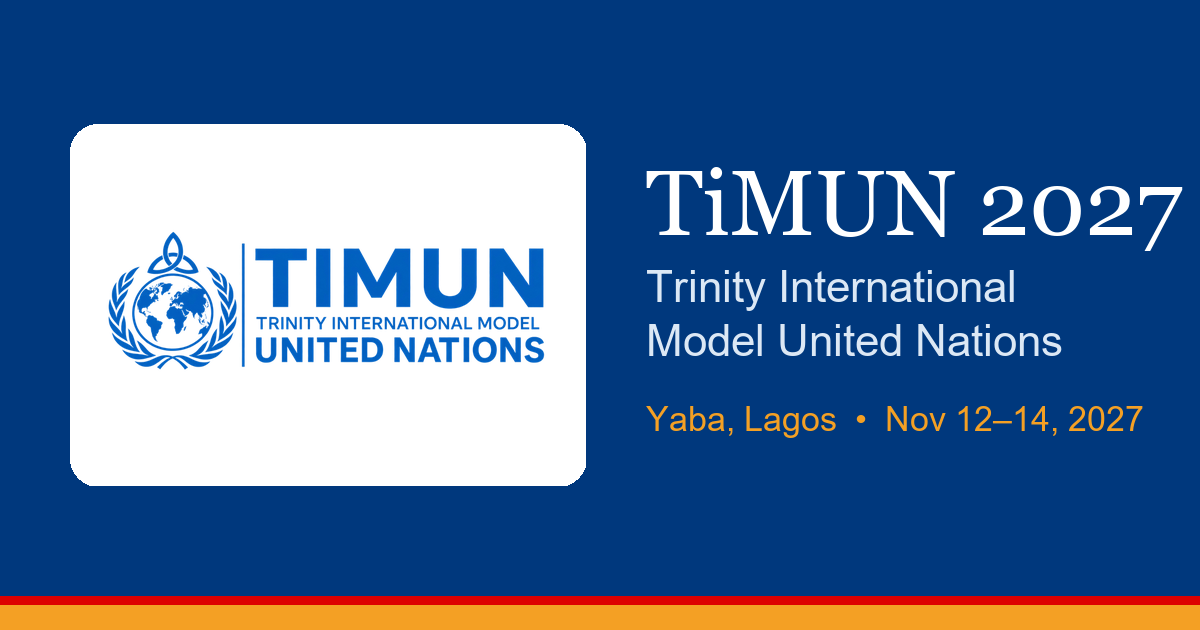
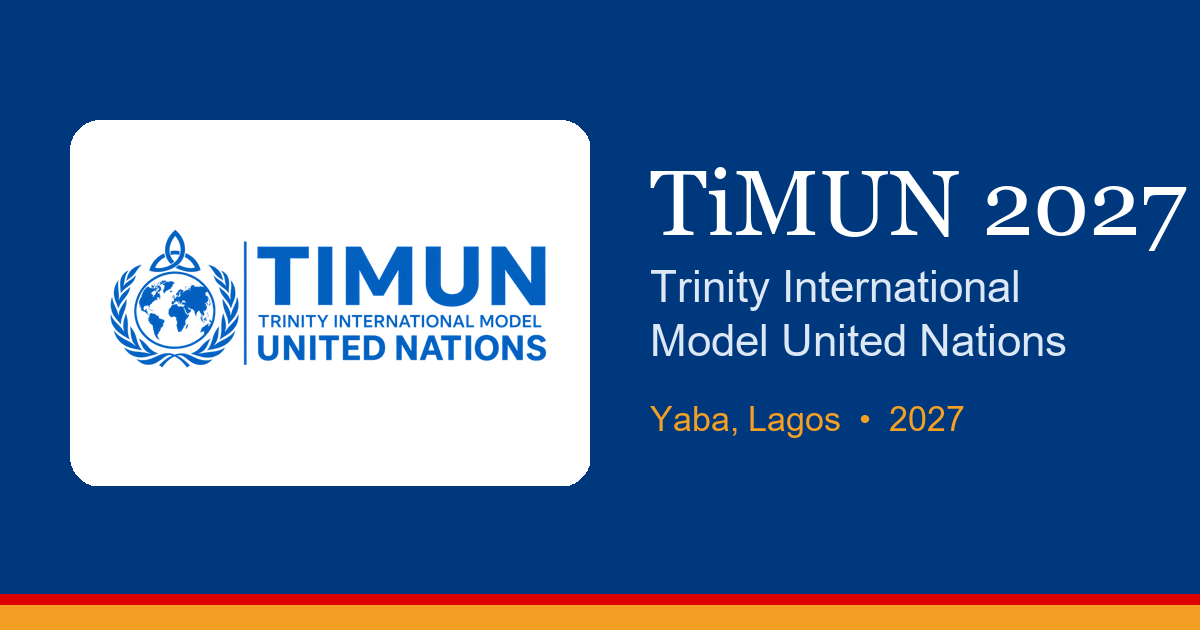
feat: remove undecided dates, dateless social cards (landscape + portrait)

diff --git a/index.html b/index.html
@@ -3,8 +3,8 @@
   <head>
     <meta charset="UTF-8" />
     <meta name="viewport" content="width=device-width, initial-scale=1.0" />
-    <title>TiMUN 2027 | Trinity International Model United Nations — Nov 12–14, 2027</title>
-    <meta name="description" content="TiMUN 2027 is the inaugural Trinity International Model United Nations conference at Trinity University, Yaba, Lagos: youth diplomacy, delegate stories, venue and registration. Nov 12–14, 2027." />
+    <title>TiMUN 2027 | Trinity International Model United Nations — Yaba, Lagos</title>
+    <meta name="description" content="TiMUN 2027 is the inaugural Trinity International Model United Nations conference at Trinity University, Yaba, Lagos: youth diplomacy, delegate stories, venue and registration. Dates announced soon." />
     <meta name="keywords" content="Model United Nations, MUN Nigeria, MUN Lagos, MUN Yaba, TiMUN, Trinity International Model United Nations, Trinity University Yaba, delegate registration, youth diplomacy Nigeria" />
     <meta name="author" content="TiMUN Secretariat" />
     <meta name="robots" content="index, follow, max-image-preview:large" />
@@ -16,23 +16,23 @@
     <!-- Open Graph -->
     <meta property="og:type" content="website" />
     <meta property="og:site_name" content="TiMUN — Trinity International Model United Nations" />
-    <meta property="og:title" content="TiMUN 2027 | Trinity International Model United Nations — Nov 12–14, 2027" />
-    <meta property="og:description" content="About TiMUN • Delegate stories • Venue in Yaba, Lagos • Register for TiMUN 2027." />
+    <meta property="og:title" content="TiMUN 2027 | Trinity International Model United Nations — Yaba, Lagos" />
+    <meta property="og:description" content="About TiMUN • Delegate stories • Venue in Yaba, Lagos • Dates announced soon." />
     <meta property="og:url" content="https://ti-mun-website.vercel.app/" />
     <meta property="og:image" content="https://ti-mun-website.vercel.app/og-image.png" />
     <meta property="og:image:secure_url" content="https://ti-mun-website.vercel.app/og-image.png" />
     <meta property="og:image:type" content="image/png" />
     <meta property="og:image:width" content="1200" />
     <meta property="og:image:height" content="630" />
-    <meta property="og:image:alt" content="TiMUN 2027 — Trinity International Model United Nations, Yaba Lagos, Nov 12–14 2027" />
+    <meta property="og:image:alt" content="TiMUN 2027 — Trinity International Model United Nations, Yaba Lagos" />
     <meta property="og:locale" content="en_NG" />
     <!-- Twitter / X -->
     <meta name="twitter:card" content="summary_large_image" />
     <meta name="twitter:site" content="@timun_org" />
     <meta name="twitter:title" content="TiMUN 2027 | Trinity International Model United Nations" />
-    <meta name="twitter:description" content="Inaugural youth diplomacy & leadership conference. Nov 12–14, 2027. About, stories, venue, registration." />
+    <meta name="twitter:description" content="Inaugural youth diplomacy & leadership conference in Yaba, Lagos. About, stories, venue. Dates announced soon." />
     <meta name="twitter:image" content="https://ti-mun-website.vercel.app/og-image.png" />
-    <meta name="twitter:image:alt" content="TiMUN 2027 — Yaba, Lagos • Nov 12–14, 2027" />
+    <meta name="twitter:image:alt" content="TiMUN 2027 — Yaba, Lagos • Dates announced soon" />
     <link rel="preconnect" href="https://images.unsplash.com" />
     <link rel="preconnect" href="https://js.paystack.co" />
     <script type="application/ld+json">
@@ -49,9 +49,9 @@
         {
           "@type": "Event",
           "name": "TiMUN 2027 — Inaugural Conference",
-          "description": "Inaugural youth diplomacy conference at Trinity University, Yaba, Lagos. Nov 12–14, 2027.",
-          "startDate": "2027-11-12",
-          "endDate": "2027-11-14",
+          "description": "Inaugural youth diplomacy conference at Trinity University, Yaba, Lagos. Dates announced soon.",
+          "startDate": "2027",
+          "endDate": "2027",
           "eventStatus": "https://schema.org/EventScheduled",
           "eventAttendanceMode": "https://schema.org/OfflineEventAttendanceMode",
           "location": { "@type": "Place", "name": "Trinity University, Yaba, Lagos, Nigeria" },

diff --git a/src/components/Hero.tsx b/src/components/Hero.tsx
@@ -1,4 +1,4 @@
-import React, { useState, useEffect } from 'react';
+import React from 'react';
 import { motion, useReducedMotion } from 'motion/react';
 import { useConferenceData } from '../context/ConferenceContext';
 import { LogoBadge } from './LogoBadge';
@@ -18,25 +18,7 @@ export const Hero: React.FC<HeroProps> = ({
   const { conferenceInfo, committees } = useConferenceData();
   const reduceMotion = useReducedMotion();
 
-  const targetDate = new Date('2027-11-12T09:00:00').getTime();
-  const [timeLeft, setTimeLeft] = useState({ days: 0, hours: 0, minutes: 0, seconds: 0 });
 
-  useEffect(() => {
-    const updateCountdown = () => {
-      const difference = targetDate - new Date().getTime();
-      if (difference > 0) {
-        setTimeLeft({
-          days: Math.floor(difference / (1000 * 60 * 60 * 24)),
-          hours: Math.floor((difference % (1000 * 60 * 60 * 24)) / (1000 * 60 * 60)),
-          minutes: Math.floor((difference % (1000 * 60 * 60)) / (1000 * 60)),
-          seconds: Math.floor((difference % (1000 * 60)) / 1000)
-        });
-      }
-    };
-    updateCountdown();
-    const interval = setInterval(updateCountdown, 1000);
-    return () => clearInterval(interval);
-  }, [targetDate]);
 
   return (
     <section id="hero" className="relative bg-white overflow-hidden">
@@ -116,24 +98,14 @@ export const Hero: React.FC<HeroProps> = ({
                 </div>
               ))}
             </div>
-            <div className="grid grid-cols-4 gap-2 mt-4">
-              {[
-                { label: 'Days', value: timeLeft.days },
-                { label: 'Hrs', value: timeLeft.hours },
-                { label: 'Min', value: timeLeft.minutes },
-                { label: 'Sec', value: timeLeft.seconds },
-              ].map(item => (
-                <div key={item.label} className="rounded-xl border-2 border-[#f4a024] bg-[#fef6e7] py-2 text-center">
-                  <div className="font-bold text-lg text-[#00387d] font-mono">
-                    {String(item.value).padStart(2, '0')}
-                  </div>
-                  <div className="text-[10px] font-bold uppercase text-[#777777]">{item.label}</div>
-                </div>
-              ))}
+            <div className="rounded-xl border-2 border-[#f4a024] bg-[#fef6e7] px-4 py-3 mt-4 text-center">
+              <p className="text-[13px] font-bold uppercase tracking-widest text-[#5f3a00]">
+                Dates announced soon
+              </p>
+              <p className="text-[13px] text-[#777777] mt-1">
+                The gavel falls at {conferenceInfo.venue} — join the bulletin to hear first.
+              </p>
             </div>
-            <p className="text-[13px] text-[#777777] mt-4">
-              The gavel falls {conferenceInfo.dates} at {conferenceInfo.venue}.
-            </p>
           </motion.div>
         </div>
       </div>
@@ -141,7 +113,7 @@ export const Hero: React.FC<HeroProps> = ({
       {/* Gold ticker */}
       <div className="bg-[#f4a024] border-y-2 border-[#b56a00]">
         <p className="max-w-[1200px] mx-auto px-4 sm:px-6 py-2.5 text-center text-[13px] font-bold uppercase tracking-widest text-[#15305b]">
-          Early-bird ends {conferenceInfo.earlyBirdDeadline} — first to register pick their countries first
+          Registration opens soon — join the bulletin to pick your country first
         </p>
       </div>
     </section>

diff --git a/src/data/conferenceData.ts b/src/data/conferenceData.ts
@@ -4,12 +4,12 @@ export const CONFERENCE_INFO = {
   title: "Trinity International Model United Nations",
   acronym: "TiMUN 2027",
   edition: "Annual International Youth Diplomacy & Leadership Conference",
-  dates: "November 12 – 14, 2027",
+  dates: "2027",
   location: "Trinity University, Yaba • Lagos, Nigeria",
   venue: "Main Auditorium & Senate Hall Complex",
   theme: "Beyond the Classroom: Equipping Youth to Lead in Diplomacy, Governance & Global Affairs",
-  registrationDeadline: "October 25, 2027",
-  earlyBirdDeadline: "September 20, 2027",
+  registrationDeadline: "To be announced",
+  earlyBirdDeadline: "To be announced",
   delegateFee: "$65",
   delegationFee: "$110",
   contactEmail: "secretariat@timun.org",
@@ -325,8 +325,8 @@ export const COUNTRY_MATRIX_SAMPLE: CountryMatrixItem[] = [
 export const SCHEDULE: DaySchedule[] = [
   {
     dayNumber: 1,
-    date: "November 12, 2027",
-    dayName: "Friday — Accreditation, Opening Ceremony & Simulation Commencement",
+    date: "Day One",
+    dayName: "Arrival — Accreditation, Opening Ceremony & Simulation Commencement",
     items: [
       { time: "09:00 - 11:30", title: "Delegate Accreditation & Conference Pack Collection", location: "Main Auditorium Foyer", description: "Accreditation, credentials validation, TiMUN delegate folders, handbook, and badge collection.", type: "ceremony" },
       { time: "11:30 - 13:00", title: "Inaugural Opening Ceremony & Diplomatic Keynotes", location: "Main Auditorium Stage", description: "Addresses by the Founders & Executive Directorate, Trinity University leadership, and Distinguished Guest Diplomats.", type: "ceremony", dressCode: "Western Business / Official National Attire" },
@@ -338,8 +338,8 @@ export const SCHEDULE: DaySchedule[] = [
   },
   {
     dayNumber: 2,
-    date: "November 13, 2027",
-    dayName: "Saturday — Debate, Practical Workshops, Blocs & Resolution Drafting",
+    date: "Day Two",
+    dayName: "Debate — Practical Workshops, Blocs & Resolution Drafting",
     items: [
       { time: "08:30 - 09:00", title: "Morning Tea & Chair Strategy Briefings", location: "Chapman Atrium", description: "Morning refreshments and committee dais briefings.", type: "meal" },
       { time: "09:00 - 12:30", title: "Committee Session II — Working Papers, Unmoderated Caucuses & Blocs", location: "Respective Committee Rooms", description: "Coalition building, working paper drafting, and substantive debate on core agenda items.", type: "session", dressCode: "Western Business Attire" },
@@ -350,8 +350,8 @@ export const SCHEDULE: DaySchedule[] = [
   },
   {
     dayNumber: 3,
-    date: "November 14, 2027",
-    dayName: "Sunday — Voting Procedure, Plenary Action & Awards Ceremony",
+    date: "Day Three",
+    dayName: "Verdict — Voting Procedure, Plenary Action & Awards Ceremony",
     items: [
       { time: "09:00 - 11:30", title: "Committee Session IV — Final Voting Procedure on Resolutions", location: "Respective Committee Rooms", description: "Roll call votes, division of question, clause-by-clause voting, and committee concluding statements.", type: "session", dressCode: "Western Business Attire" },
       { time: "11:45 - 13:00", title: "General Assembly Plenary Session", location: "Main Auditorium", description: "Plenary ratification of committee outcomes and presentation of adopted resolutions.", type: "session" },

diff --git a/src/data/mediaData.ts b/src/data/mediaData.ts
@@ -39,10 +39,10 @@ export const MEDIA_POSTS: MediaPost[] = [
   {
     id: 'post-earlybird',
     kind: 'update',
-    title: 'Early-bird registration is open for TiMUN 2027',
+    title: 'Registration is coming to TiMUN 2027',
     excerpt:
-      'Secure your committee and country assignment before September 20, 2027. Individual and delegation passes include all sessions, workshops, the icebreaker and the gala dinner.',
-    body: 'Early-bird registration for the inaugural Trinity International Model United Nations is officially open.\n\nDelegates who register before September 20, 2027 get priority country allocation across all eight committees — UNSC, AU-PSC, ECOWAS, NASS Joint Committee, DISEC, ECOSOC, UNHCR and WHO.\n\nYour pass covers all four committee sessions, the plenary, ROP masterclasses, leadership workshops, the diplomatic icebreaker and the Saturday gala buffet dinner. Pay online in Naira or Dollars via Paystack, or by bank transfer.',
+      'Join the bulletin to secure your committee and country assignment the moment registration opens. Passes will cover all sessions, workshops, the icebreaker and the gala dinner.',
+    body: 'Registration for the inaugural Trinity International Model United Nations opens soon.\n\nDelegates who join the bulletin first will get priority country allocation across all eight committees — UNSC, AU-PSC, ECOWAS, NASS Joint Committee, DISEC, ECOSOC, UNHCR and WHO.\n\nYour pass will cover all four committee sessions, the plenary, ROP masterclasses, leadership workshops, the diplomatic icebreaker and the Saturday gala buffet dinner. Pay online in Naira or Dollars via Paystack, or by bank transfer.',
     coverImage: NIGERIAN_PHOTOS.conference.src,
     videoUrl: '',
     gallery: [],

diff --git a/src/context/ConferenceContext.tsx b/src/context/ConferenceContext.tsx
@@ -433,14 +433,18 @@ export const ConferenceDataProvider: React.FC<{ children: React.ReactNode }> = (
       title: "Trinity International Model United Nations",
       acronym: "TiMUN 2027",
       edition: "Inaugural Edition • 1st Annual Conference",
-      dates: "November 12 – 14, 2027",
+      dates: "2027",
       location: "Trinity University, Yaba • Lagos, Nigeria",
       venue: "Main Auditorium & Senate Hall Complex",
       theme: "Enter Your Conference Theme Here",
-      registrationDeadline: "October 25, 2027",
-      earlyBirdDeadline: "September 20, 2027",
+      registrationDeadline: "To be announced",
+      earlyBirdDeadline: "To be announced",
       delegateFee: "$65",
       delegationFee: "$110",
+      feeIndividualUsd: 65,
+      feeDelegationBaseUsd: 110,
+      feePerDelegateUsd: 55,
+      ngnPerUsd: 1500,
       contactEmail: "secretariat@timun.org",
       stats: {
         delegates: "0",
@@ -452,9 +456,9 @@ export const ConferenceDataProvider: React.FC<{ children: React.ReactNode }> = (
     setCommittees([]);
     setSecretariatTeam([]);
     setSchedule([
-      { dayNumber: 1, date: "Nov 12, 2027", dayName: "Friday", items: [] },
-      { dayNumber: 2, date: "Nov 13, 2027", dayName: "Saturday", items: [] },
-      { dayNumber: 3, date: "Nov 14, 2027", dayName: "Sunday", items: [] }
+      { dayNumber: 1, date: "Day One", dayName: "Arrival", items: [] },
+      { dayNumber: 2, date: "Day Two", dayName: "Debate", items: [] },
+      { dayNumber: 3, date: "Day Three", dayName: "Verdict", items: [] }
     ]);
     setFaqs([]);
   };

diff --git a/src/components/SEO.tsx b/src/components/SEO.tsx
@@ -8,7 +8,7 @@ export const SEO: React.FC = () => {
 
   useEffect(() => {
     applySeo({
-      title: `${conferenceInfo.acronym || 'TiMUN 2027'} | ${conferenceInfo.title || 'Trinity International Model United Nations'} — ${conferenceInfo.dates || 'Nov 12–14, 2027'}`,
+      title: `${conferenceInfo.acronym || 'TiMUN 2027'} | ${conferenceInfo.title || 'Trinity International Model United Nations'} — ${conferenceInfo.dates || '2027'}`,
       description: `${conferenceInfo.acronym || 'TiMUN 2027'}: ${conferenceInfo.theme || 'youth diplomacy & leadership conference'}. ${conferenceInfo.dates || ''} • ${conferenceInfo.location || ''}. Committees, registration, schedule, study guides and resolution builder.`,
       path: '/',
     });
@@ -16,8 +16,8 @@ export const SEO: React.FC = () => {
       'timun-conference',
       conferenceJsonLd({
         name: `${conferenceInfo.acronym || 'TiMUN 2027'} — ${conferenceInfo.title || ''}`,
-        startDate: '2027-11-12',
-        endDate: '2027-11-14',
+        startDate: '2027',
+        endDate: '2027',
         locationName: conferenceInfo.location || 'Trinity University, Yaba, Lagos',
         description: conferenceInfo.theme || '',
       })

diff --git a/src/lib/seo.ts b/src/lib/seo.ts
@@ -33,7 +33,7 @@ export function applySeo(opts?: {
   image?: string;
 }) {
   if (typeof document === 'undefined') return;
-  const title = opts?.title || `${SITE_NAME} 2027 | Nov 12–14, 2027`;
+  const title = opts?.title || `${SITE_NAME} 2027 | Yaba, Lagos`;
   const description = opts?.description || SITE_DESCRIPTION;
   const url = `${SITE_URL}${opts?.path || '/'}`;
   const image = opts?.image || `${SITE_URL}/og-image.png`;
@@ -79,8 +79,8 @@ export function conferenceJsonLd(opts: {
         '@type': 'Event',
         name: opts.name || 'TiMUN 2027',
         description: opts.description || SITE_DESCRIPTION,
-        startDate: opts.startDate || '2027-11-12',
-        endDate: opts.endDate || '2027-11-14',
+        startDate: opts.startDate || '2027',
+        endDate: opts.endDate || '2027',
         eventStatus: 'https://schema.org/EventScheduled',
         eventAttendanceMode: 'https://schema.org/OfflineEventAttendanceMode',
         location: {

diff --git a/src/components/DelegateToolkit.tsx b/src/components/DelegateToolkit.tsx
@@ -156,7 +156,7 @@ export const DelegateToolkit: React.FC<DelegateToolkitProps> = ({ onOpenResoluti
               <ul className="space-y-3 text-xs text-slate-600 leading-relaxed">
                 <li className="flex items-start gap-2">
                   <CheckCircle2 className="w-4 h-4 text-[#b56a00] shrink-0 mt-0.5" />
-                  <span>Submitted via email to <strong>positionpapers@timun.org</strong> by October 31, 2026.</span>
+                  <span>Submitted via email to <strong>positionpapers@timun.org</strong> before the announced deadline.</span>
                 </li>
                 <li className="flex items-start gap-2">
                   <CheckCircle2 className="w-4 h-4 text-[#b56a00] shrink-0 mt-0.5" />

diff --git a/src/lib/site.ts b/src/lib/site.ts
@@ -12,7 +12,7 @@ export const SITE_URL =
 export const SITE_NAME = 'TiMUN — Trinity International Model United Nations';
 export const SITE_SHORT_NAME = 'TiMUN 2027';
 export const SITE_DESCRIPTION =
-  'TiMUN 2027 is the inaugural Trinity International Model United Nations conference at Trinity University, Yaba, Lagos: youth diplomacy, delegate stories, venue and registration. Nov 12–14, 2027.';
+  'TiMUN 2027 is the inaugural Trinity International Model United Nations conference at Trinity University, Yaba, Lagos: youth diplomacy, delegate stories, venue and registration. Dates announced soon.';
 export const SITE_KEYWORDS = [
   'Model United Nations',
   'MUN Nigeria',

diff --git a/src/components/RegistrationModal.tsx b/src/components/RegistrationModal.tsx
@@ -472,7 +472,7 @@ export const RegistrationModal: React.FC<RegistrationModalProps> = ({
                     className="rounded text-[#00387d] focus:ring-[#00387d] bg-slate-50 border-slate-300"
                   />
                   <label htmlFor="positionPaperAgree" className="text-xs text-slate-600">
-                    I agree to submit my 2-page Position Paper by October 31, 2026 to be eligible for conference awards.
+                    I agree to submit my 2-page Position Paper before the announced deadline to be eligible for conference awards.
                   </label>
                 </div>
               </div>
